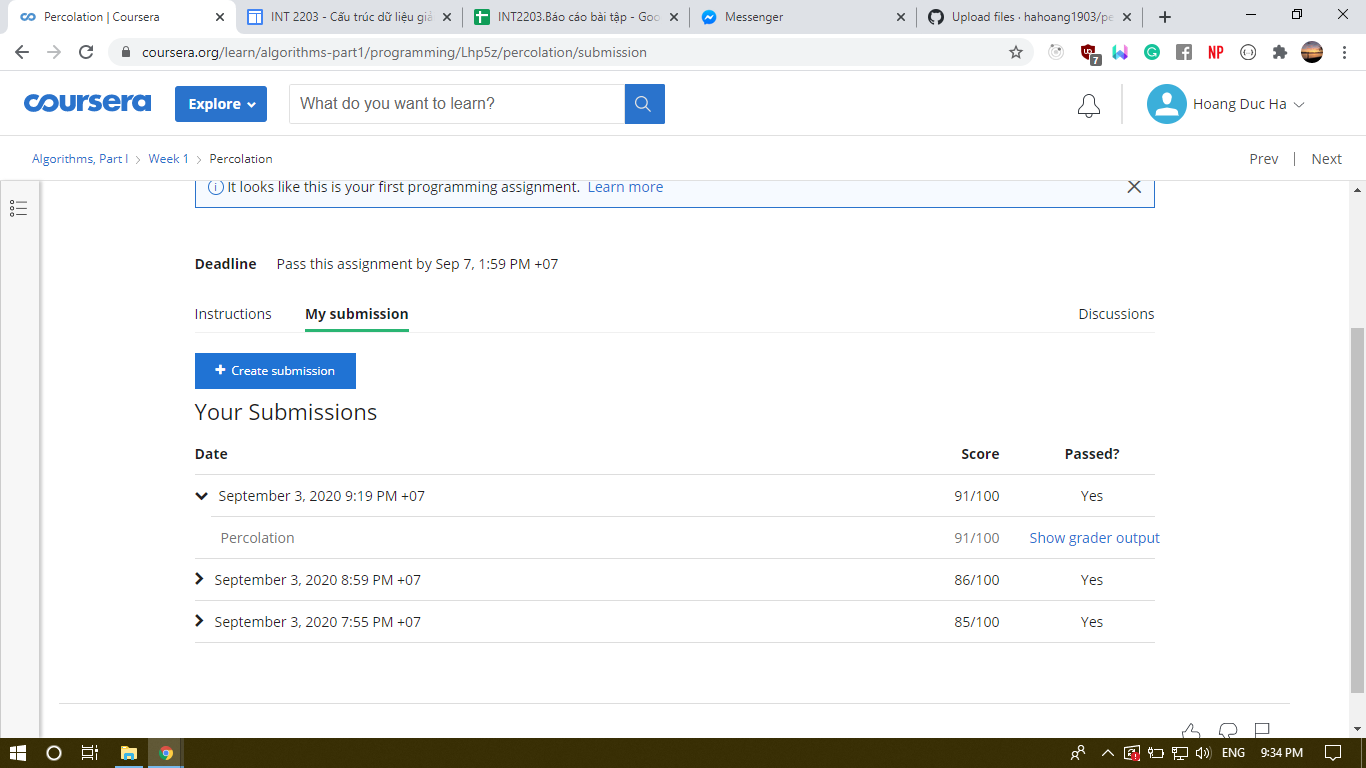
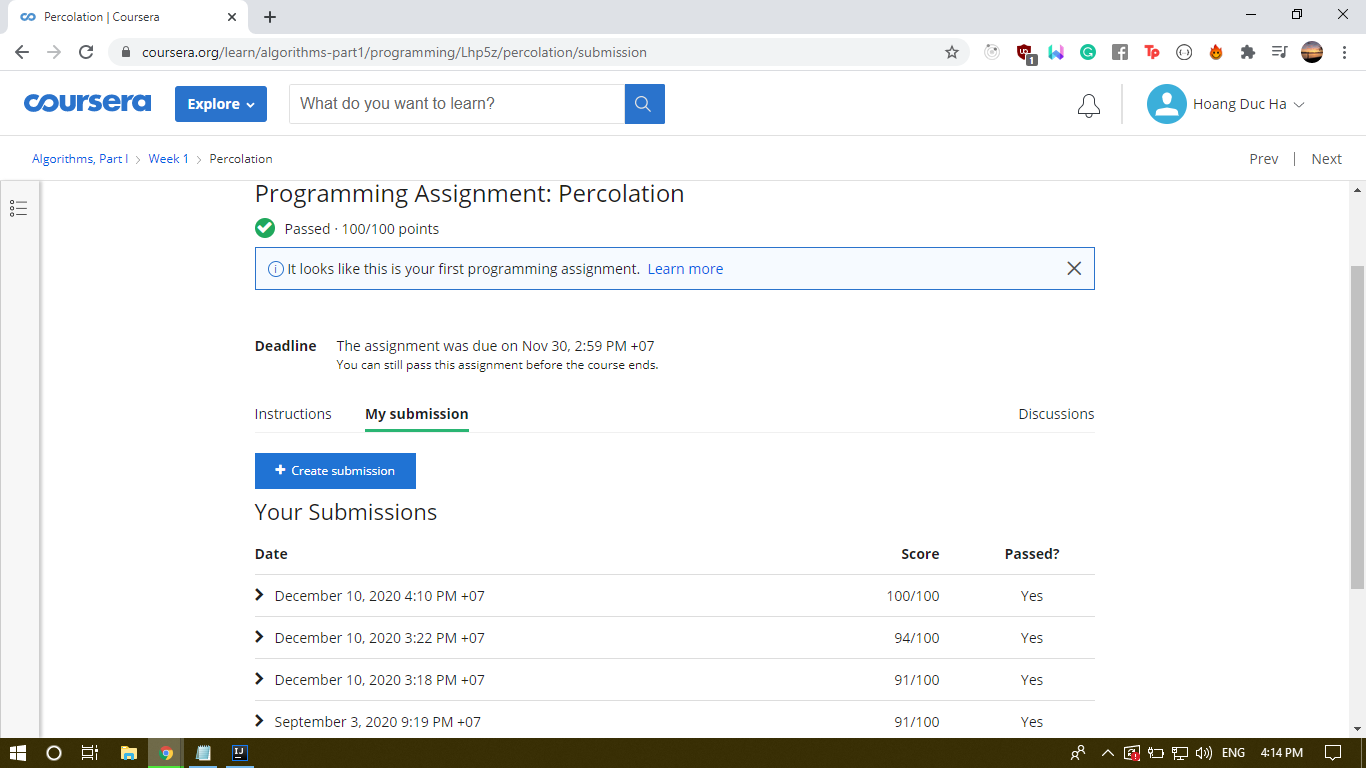
Update Percolation 100

diff --git a/Assignment1 - Percolation/Percolation.java b/Assignment1 - Percolation/Percolation.java
@@ -5,6 +5,8 @@ public class Percolation {
     private final int n;
     private final int size;
     private final WeightedQuickUnionUF uf;
+    private final WeightedQuickUnionUF backwashUF;
+    private int openSites;
 
     public Percolation(int n) {
         if (n <= 0)
@@ -12,6 +14,7 @@ public class Percolation {
 
         this.n = n;
         size = n * n;
+        openSites = 0;
         grid = new boolean[n + 1][n + 1];
         for (int i = 1; i <= n; i++)
             for (int j = 1; j <= n; j++)
@@ -22,55 +25,77 @@ public class Percolation {
             uf.union(i, size);
         for (int i = size - n; i < size; i++)
             uf.union(i, size + 1);
+
+        backwashUF = new WeightedQuickUnionUF(size + 1);
+        for (int i = 0; i < n; i++)
+            backwashUF.union(i, size);
     }
 
     public void open(int row, int col) {
-        if (row < 1 || row > n || col < 1 || col > n)
+        if (isNotInRange(row, col))
             throw new IllegalArgumentException();
 
         if (!isOpen(row, col)) {
             grid[row][col] = true;
+            openSites++;
 
-            if (row - 1 >= 1 && grid[row - 1][col])
-                uf.union((row - 2) * n + col - 1, (row - 1) * n + col - 1);
-            if (row + 1 <= n && grid[row + 1][col])
-                uf.union(row * n + col - 1, (row - 1) * n + col - 1);
-            if (col - 1 >= 1 && grid[row][col - 1])
-                uf.union((row - 1) * n + col - 2, (row - 1) * n + col - 1);
-            if (col + 1 <= n && grid[row][col + 1])
-                uf.union((row - 1) * n + col, (row - 1) * n + col - 1);
+            if (row - 1 >= 1 && isOpen(row - 1, col)) {
+                uf.union(map2Dto1D(row - 1, col), map2Dto1D(row, col));
+                backwashUF.union(map2Dto1D(row - 1, col), map2Dto1D(row, col));
+            }
+            if (row + 1 <= n && isOpen(row + 1, col)) {
+                uf.union(map2Dto1D(row + 1, col), map2Dto1D(row, col));
+                backwashUF.union(map2Dto1D(row + 1, col), map2Dto1D(row, col));
+            }
+            if (col - 1 >= 1 && isOpen(row, col - 1)) {
+                uf.union(map2Dto1D(row, col - 1), map2Dto1D(row, col));
+                backwashUF.union(map2Dto1D(row, col - 1), map2Dto1D(row, col));
+            }
+            if (col + 1 <= n && isOpen(row, col + 1)) {
+                uf.union(map2Dto1D(row, col + 1), map2Dto1D(row, col));
+                backwashUF.union(map2Dto1D(row, col + 1), map2Dto1D(row, col));
+            }
         }
     }
 
     public boolean isOpen(int row, int col) {
-        if (row < 1 || row > n || col < 1 || col > n)
+        if (isNotInRange(row, col))
             throw new IllegalArgumentException();
         return grid[row][col];
     }
 
     public boolean isFull(int row, int col) {
-        if (row < 1 || row > n || col < 1 || col > n)
+        if (isNotInRange(row, col))
             throw new IllegalArgumentException();
-        if (isOpen(row, col))
-            if (uf.find((row - 1) * n + col - 1) == uf.find(size))
-                return true;
+
+        if (!isOpen(row, col))
+            return false;
+
+        if (backwashUF.find((row - 1) * n + col - 1) == backwashUF.find(size))
+            return true;
 
         return false;
     }
 
     public int numberOfOpenSites() {
-        int count = 0;
-        for (int i = 1; i <= n; i++)
-            for (int j = 1; j <= n; j++)
-                if (grid[i][j])
-                    count++;
-
-        return count;
+        return openSites;
     }
 
     public boolean percolates() {
+        if (numberOfOpenSites() == 0)
+            return false;
         if (uf.find(size) == uf.find(size + 1))
             return true;
         return false;
+    }
+
+    private boolean isNotInRange(int row, int col) {
+        if (row < 1 || row > n || col < 1 || col > n)
+            return true;
+        return false;
+    }
+
+    private int map2Dto1D(int row, int col) {
+        return (row - 1) * n + col - 1;
     }
 }

diff --git a/Assignment1 - Percolation/PercolationStats.java b/Assignment1 - Percolation/PercolationStats.java
@@ -2,9 +2,10 @@ import edu.princeton.cs.algs4.StdRandom;
 import edu.princeton.cs.algs4.StdStats;
 
 public class PercolationStats {
+    private static final double CONFIDENCE_95 = 1.96;
     private final double[] thresholds;
     private final double trials;
-    private static final double confidence_95 = 1.96;
+
     public PercolationStats(int n, int trials) {
         if (n <= 0 || trials <= 0)
             throw new IllegalArgumentException();
@@ -18,7 +19,7 @@ public class PercolationStats {
                 int q = StdRandom.uniform(n) + 1;
                 percolation.open(p, q);
             }
-            thresholds[trials - 1] = (double)percolation.numberOfOpenSites() / (n * n);
+            thresholds[trials - 1] = (double) percolation.numberOfOpenSites() / (n * n);
             trials--;
         }
     }
@@ -34,13 +35,13 @@ public class PercolationStats {
     public double confidenceLo() {
         double mean = mean();
         double dev = stddev();
-        return mean - (confidence_95 * dev) / Math.sqrt(trials);
+        return mean - (CONFIDENCE_95 * dev) / Math.sqrt(trials);
     }
 
     public double confidenceHi() {
         double mean = mean();
         double dev = stddev();
-        return mean + (confidence_95 * dev) / Math.sqrt(trials);
+        return mean + (CONFIDENCE_95 * dev) / Math.sqrt(trials);
     }
 
     public static void main(String[] args) {
@@ -49,7 +50,8 @@ public class PercolationStats {
         PercolationStats ps = new PercolationStats(n, trials);
 
         System.out.println("mean\t\t\t\t\t= " + ps.mean());
-        System.out.println("stddev\t\t\t\t\t= "+ ps.stddev());
-        System.out.println("95% confidence interval = [" + ps.confidenceLo() + ", " + ps.confidenceHi() + "]");
+        System.out.println("stddev\t\t\t\t\t= " + ps.stddev());
+        System.out.println(
+                "95% confidence interval = [" + ps.confidenceLo() + ", " + ps.confidenceHi() + "]");
     }
 }
